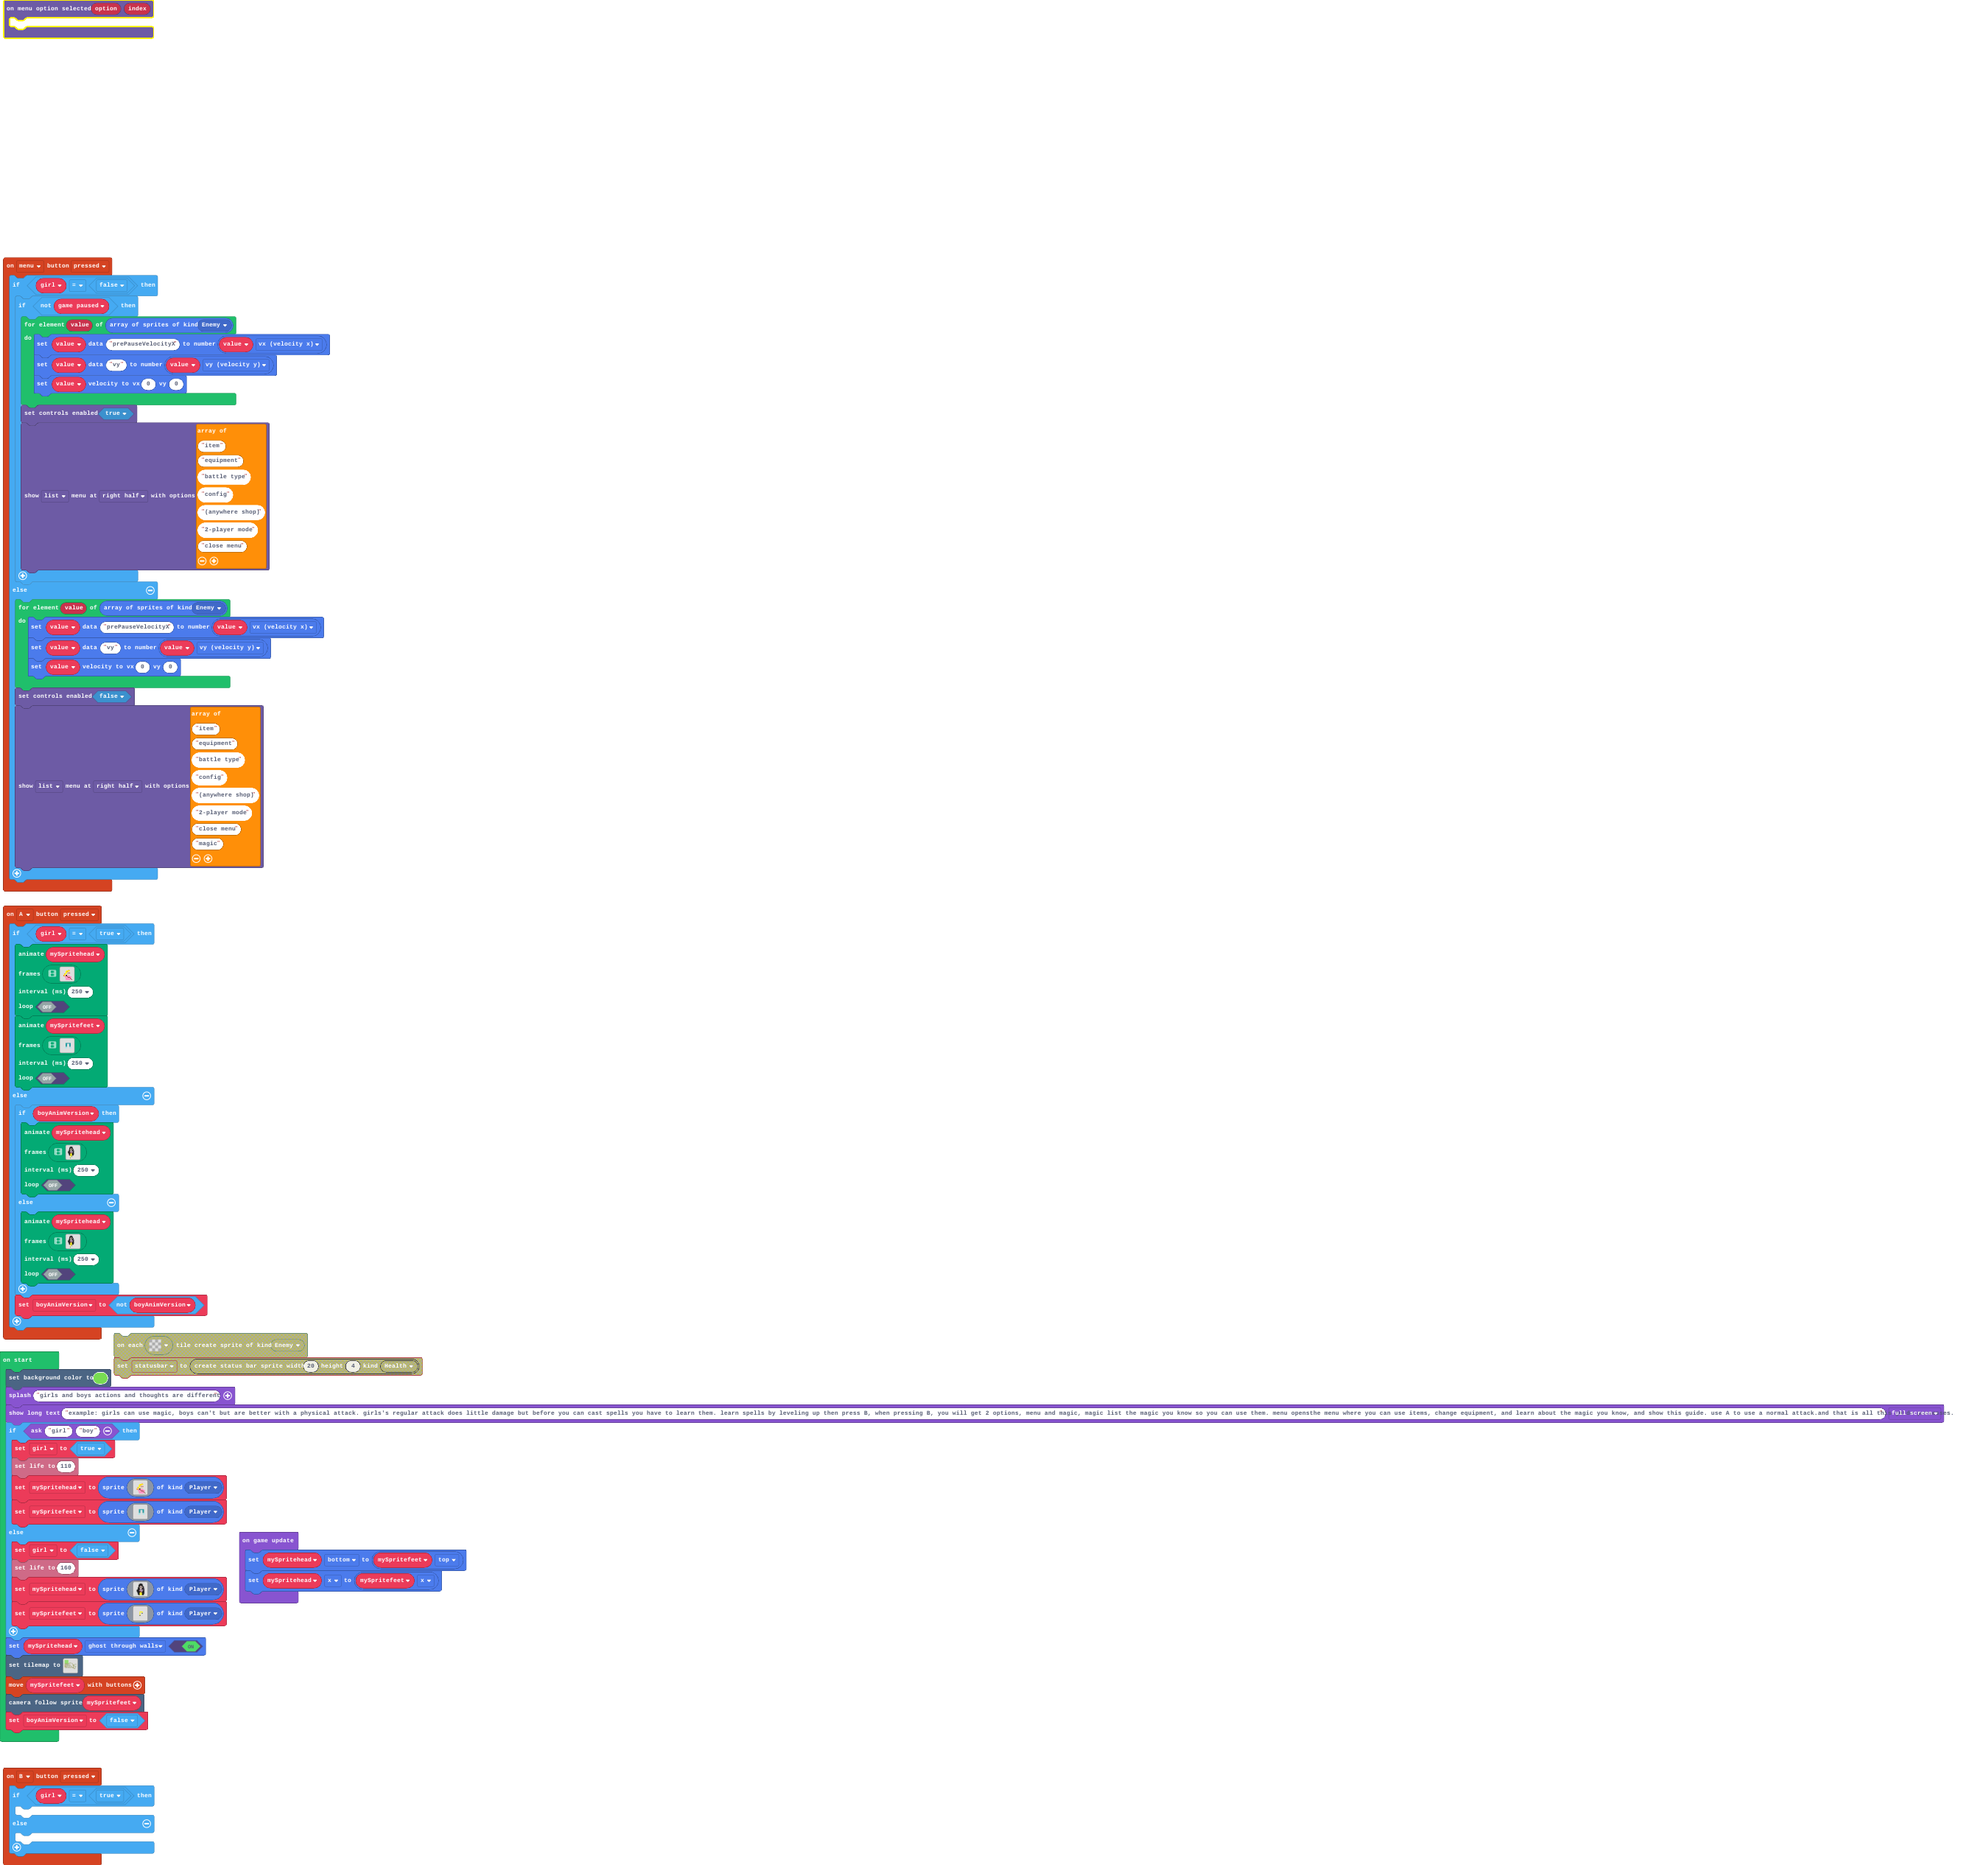
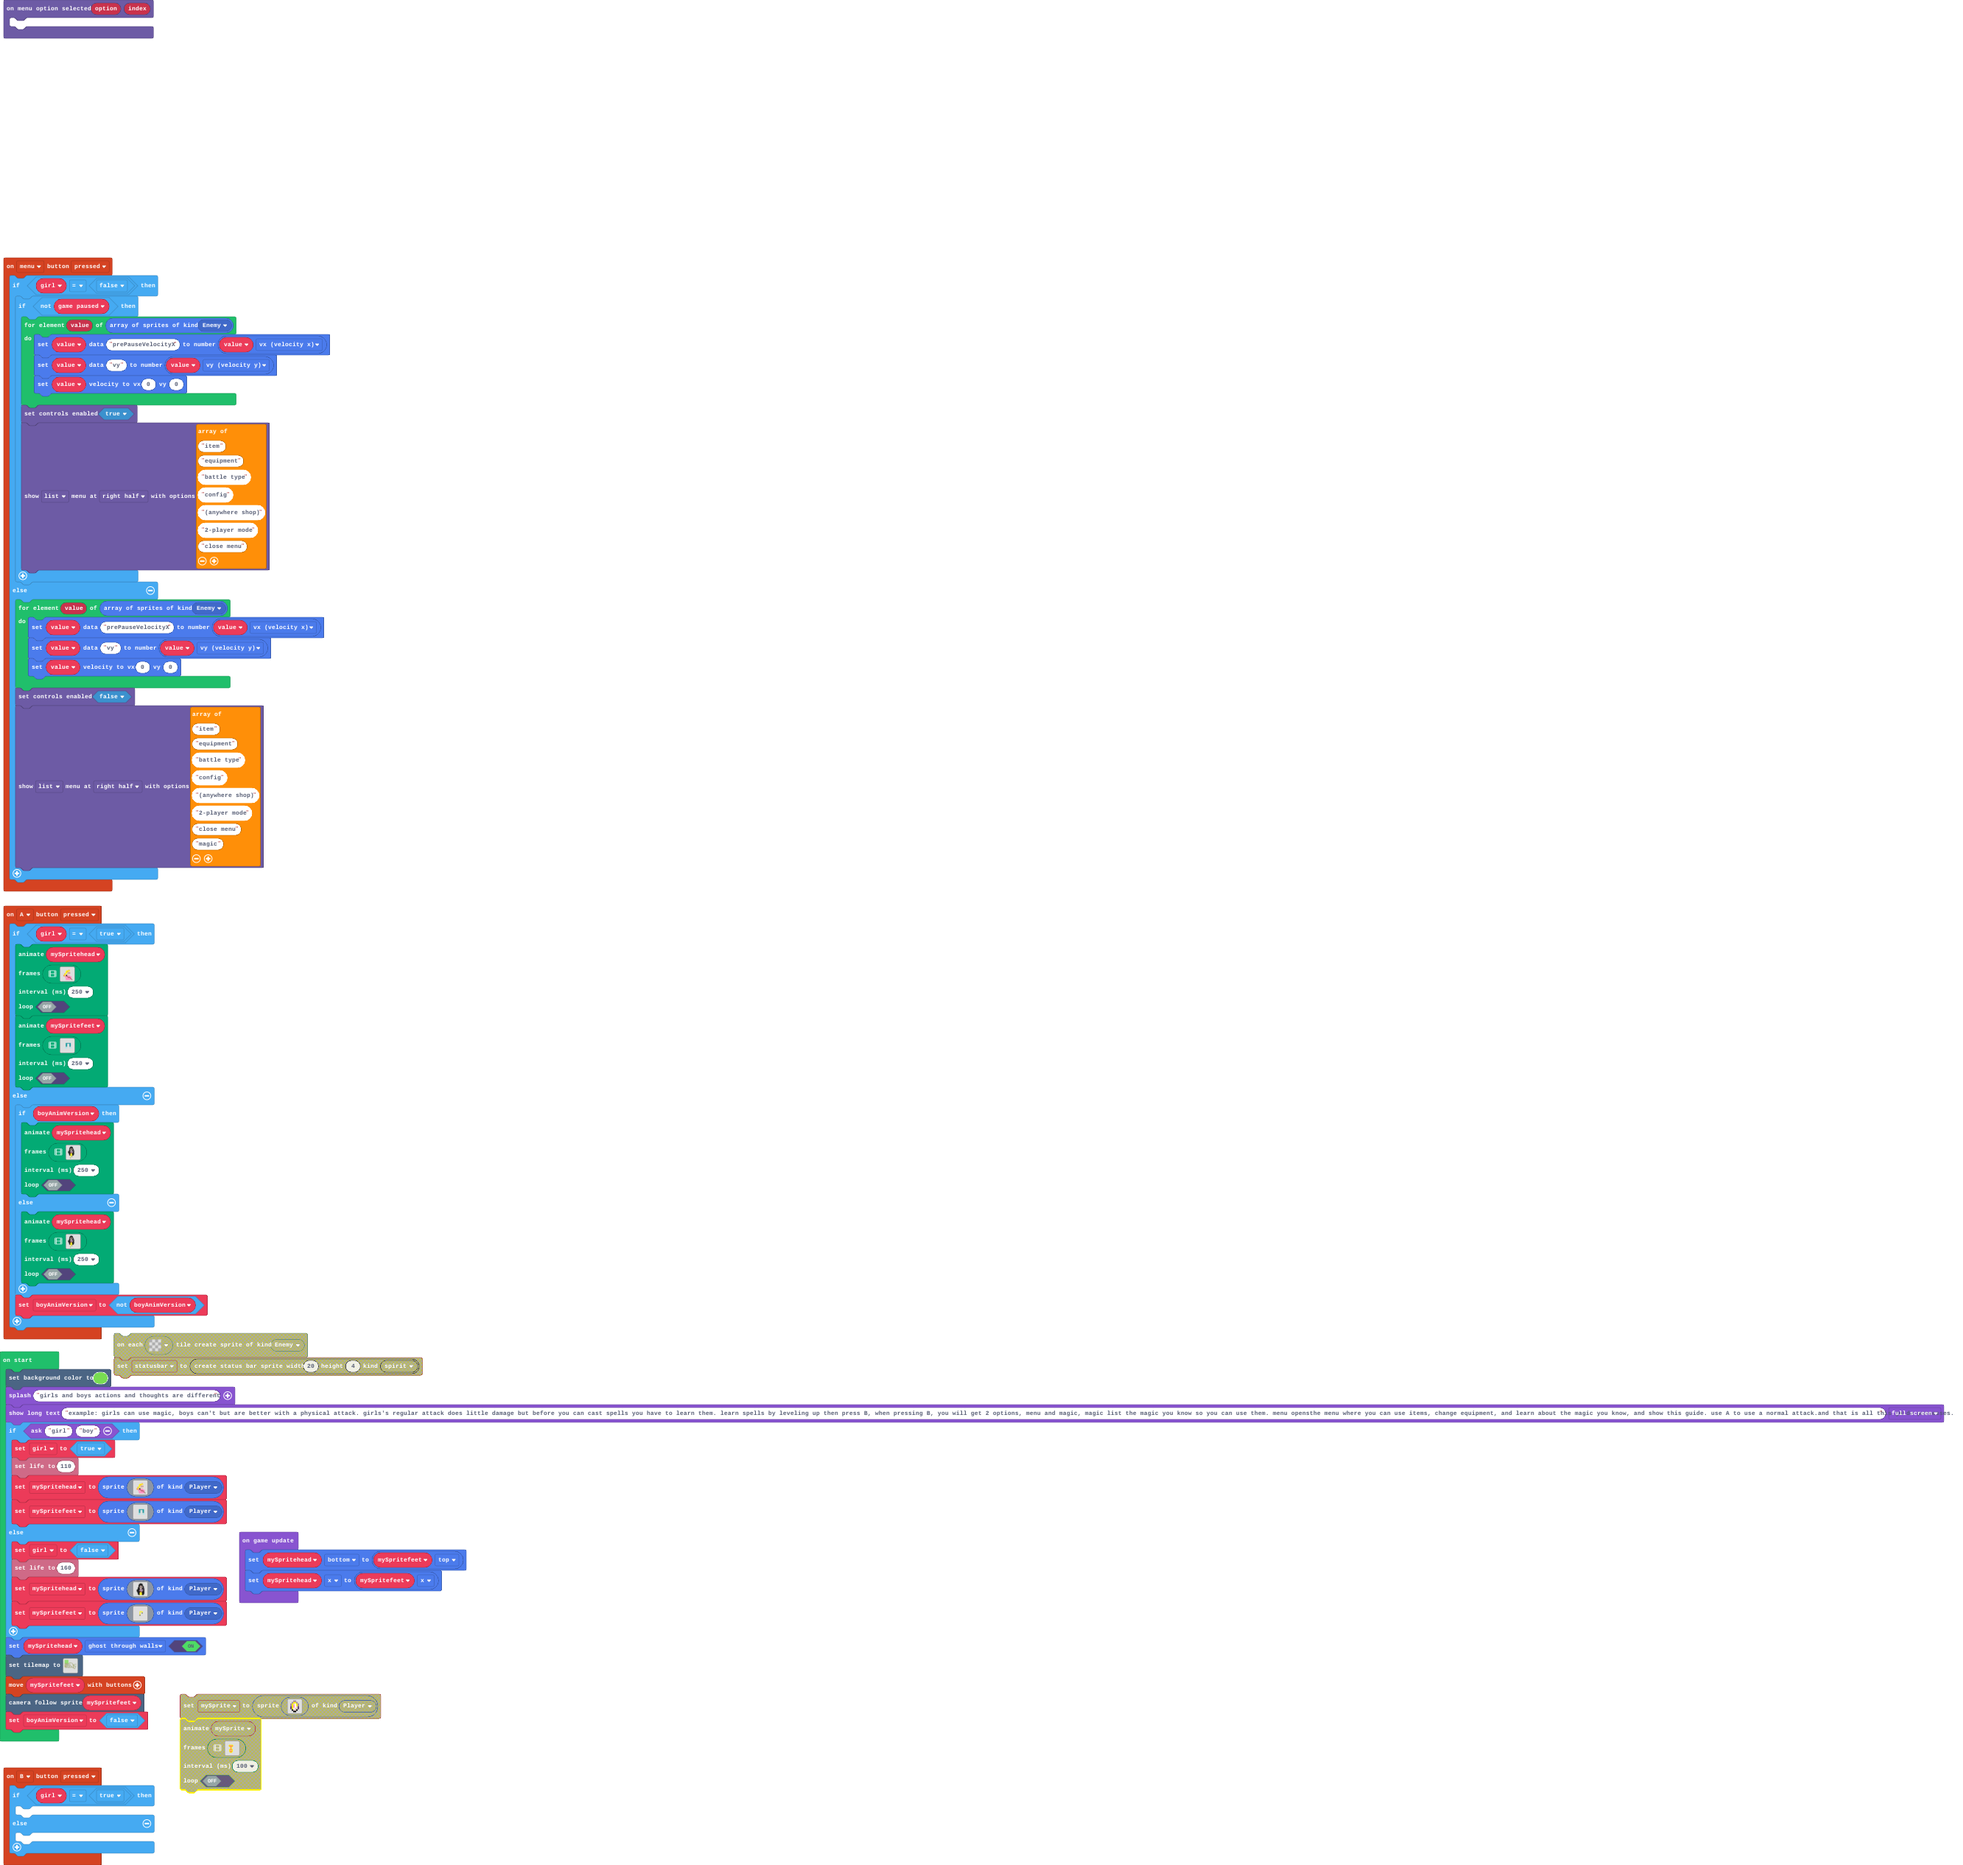
Update pxt.json, main.blocks, main.ts, tilemap.g.jres, tilemap.g.ts

diff --git a/tilemap.g.ts b/tilemap.g.ts
@@ -10,9 +10,30 @@ namespace myTiles {
     export const tile3 = image.ofBuffer(hex``);
     //% fixedInstance jres blockIdentity=images._tile
     export const tile4 = image.ofBuffer(hex``);
+    //% fixedInstance jres blockIdentity=images._tile
+    export const tile5 = image.ofBuffer(hex``);
 
     helpers._registerFactory("tilemap", function(name: string) {
         switch(helpers.stringTrim(name)) {
+            case "level2":
+            case "level2":return tiles.createTilemap(hex`1000100000000000000000000000000000000000000000000000000000000000000000000000000000000000000000000000000000000000000000000000000000000000000000000000000000000000000000000000000000000000000000000000000000000000000000000000000000000000000000000000000000000000000000000000000000000000000000000000000000000000000000000000000000000000000000000000000000000000000000000000000000000000000000000000000000000000000000000000000000000000000000000000000000000000000000000000000000000000000000000000000000000000000000000000000000000000`, img`
+. . . . . . . . . . . . . . . . 
+. . . . . . . . . . . . . . . . 
+. . . . . . . . . . . . . . . . 
+. . . . . . . . . . . . . . . . 
+. . . . . . . . . . . . . . . . 
+. . . . . . . . . . . . . . . . 
+. . . . . . . . . . . . . . . . 
+. . . . . . . . . . . . . . . . 
+. . . . . . . . . . . . . . . . 
+. . . . . . . . . . . . . . . . 
+. . . . . . . . . . . . . . . . 
+. . . . . . . . . . . . . . . . 
+. . . . . . . . . . . . . . . . 
+. . . . . . . . . . . . . . . . 
+. . . . . . . . . . . . . . . . 
+. . . . . . . . . . . . . . . . 
+`, [myTiles.transparency16], TileScale.Sixteen);
             case "world1":
             case "level1":return tiles.createTilemap(hex`3200320001010101010101010101010101010101000000000000000000000000000000000000000000000000000000000000000000000101010101010101010201010101010100000000000000000000000000000000000000000000000000000000000000000000010101010101010101010101010101010000000000000000000000000000000000000000000000000000000000000000000001020101010101010101010101010101000000000000000000000000000000000000000000000000000000000000000000000101010101010101010101010101010100000000000000000000000000000000000000000000000000000000000000000000010101010101010101010101010101010000000000000000000000000000000000000000000000000000000000000000000001010101020101010101010102010101000000000000000000000000000000000000000000000000000000000000000000000101010101010101010101010101010100000000000000000000000000000000000000000000000000000000000000000000010101010101010101020101010101010000000000000000000000000000000000000000000000000000000000000000000001010201010101010101010101010101000000000000000000000000000000000000000000000000000000000000000000000101010101010101010101010101010100000000000000000000000000000000000000000000000000000000000000000000010101010101010101010101010101010000000000000000000000000000000000000000000000000000000000000000000001010101010101010101010102010101000000000303030303030300000000000000000000000000000000000000000000000301010301020101010101010101010100000003030400000000030303030300000000000000000000000000000000000000030301030101010303030101010101010000030300000000000000000000000303000000000000000000000000000000000003010103030303030303030303030301000303000000000000000000000000000003030000000000000000000000000000000300000000000300000000000000000000030000000000000000000000000000000003000000000000000000000000000000030303030300000303000303030303030300000000000000000000000000000000000300000000000000000000000000000004000000030300000300000300000000000003030303030300000000000000000000030000000000000000030303030303030303000004030000030300030300000000000300000000000000000000000000000003000000000000030300000000000000060300000303000000030000030000000000030000000000000000000000000000000303030303030300000000000000000006030003030000000303000303030300000003000000000000000000000000000000040303030303000000000000000000000603000003000003030000030000030300030000000003030300000000000000000000000000050500000000000000000000060300000000030300000003000000030003000000030304040300000000000000000003030303030000000000000000000006030300000000030000000300000003030300000303000000030000000000000000000004030000030000000000000000000606030300030003030000030000000000000003030000000003030000000000000000000003030000030303030000000000060606030003000003030300000000000000030300000000000003000000000000000000000403030000000003030005050506060603000300000000030300000000000300000000000000000300000000000000000000000403000000000003030300000606060300030300000004030000000003000003030300000000030303030303000000000000000300000000000300000000060606030000030304030300000000030000030000030000000000000000000003030303000000030000000000030000000000000303000000030303000000000003000300000003000000000303000000000000000303030000000000000003000000000000030000000000000000000000030300030000000300000003030003030300000000000003030000000000000300000000000003030303030303030303030300000003000000030303000300000000030303000000000403030000000000030000000000000000000000000000000000000000000300000000000303000000000000000303030303030303000000000003000000000000000000000000000000000000000003030000000000000000000000000000000000000003040000000000030300000000000000000000000000000000000000000000000000000000000000000000000000000000000003000000000003000000000000000000000000000000000000000000000000000000000000000000000000000000000000000303030000030300000000000000000000000000000000000000000000000000000000000000000000000000000000000000000003030303000000000000000000000000000000000000000000000000000000000000000000000000000000000000000000000000000000000000000000000000000000000000000000000000000000000000000000000000000000000000000000000000000000000000000000000000000000000000000000000000000000000000000000000000000000000000000000000000000000000000000000000000000000000000000000000000000000000000000000000000000000000000000000000000000000000000000000000000000000000000000000000000000000000000000000000000000000000000000000000000000000000000000000000000000000000000000000000000000000000000000000000000000000000000000000000000000000000000000000000000000000000000000000000000000000000000000000000000000000000000000000000000000000000000000000000000000000000000000000000000000000000000000000000000000000000000000000000000000000000000000000000000000000000000000000000000000000000000000000000000000000000000000000000000000000000000000000000000000000000000000000000000000000000000000000000000000000000000000000000000000000000000000000000000000000000000000000000000000000000000000000000000000000000000000000000000000000000000000000000000000000000000000000000000000000000000000000000000000000000000000000000000000000000000000000000000000000000000000000000000000000000000`, img`
 ..................................................
@@ -65,7 +86,7 @@ namespace myTiles {
 ..................................................
 ..................................................
 ..................................................
-`, [myTiles.transparency16,sprites.castle.tileGrass3,sprites.castle.tileDarkGrass2,myTiles.tile1,myTiles.tile2,myTiles.tile3,myTiles.tile4], TileScale.Sixteen);
+`, [myTiles.transparency16,sprites.castle.tileGrass3,sprites.castle.tileDarkGrass2,myTiles.tile1,myTiles.tile2,myTiles.tile3,myTiles.tile4,myTiles.tile5], TileScale.Sixteen);
         }
         return null;
     })
@@ -81,6 +102,8 @@ namespace myTiles {
             case "tile3":return tile3;
             case "anchoR gloryCHesT":
             case "tile4":return tile4;
+            case "myTile0":
+            case "tile5":return tile5;
         }
         return null;
     })

diff --git a/main.ts b/main.ts
@@ -4,6 +4,9 @@ enum ActionKind {
     Jumping,
     spinning
 }
+namespace StatusBarKind {
+    export const spirit = StatusBarKind.create()
+}
 controller.B.onEvent(ControllerButtonEvent.Pressed, function () {
     if (girl == true) {
     	
